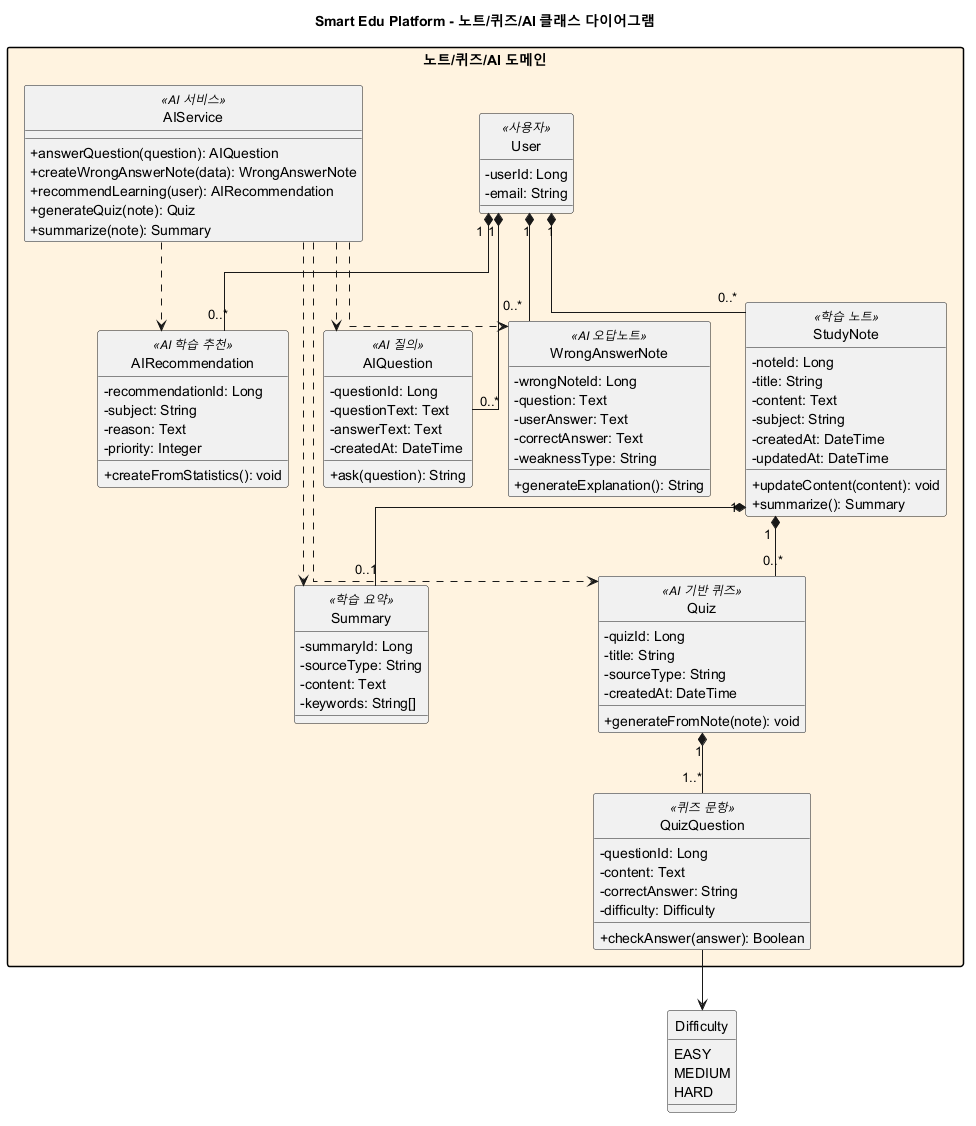
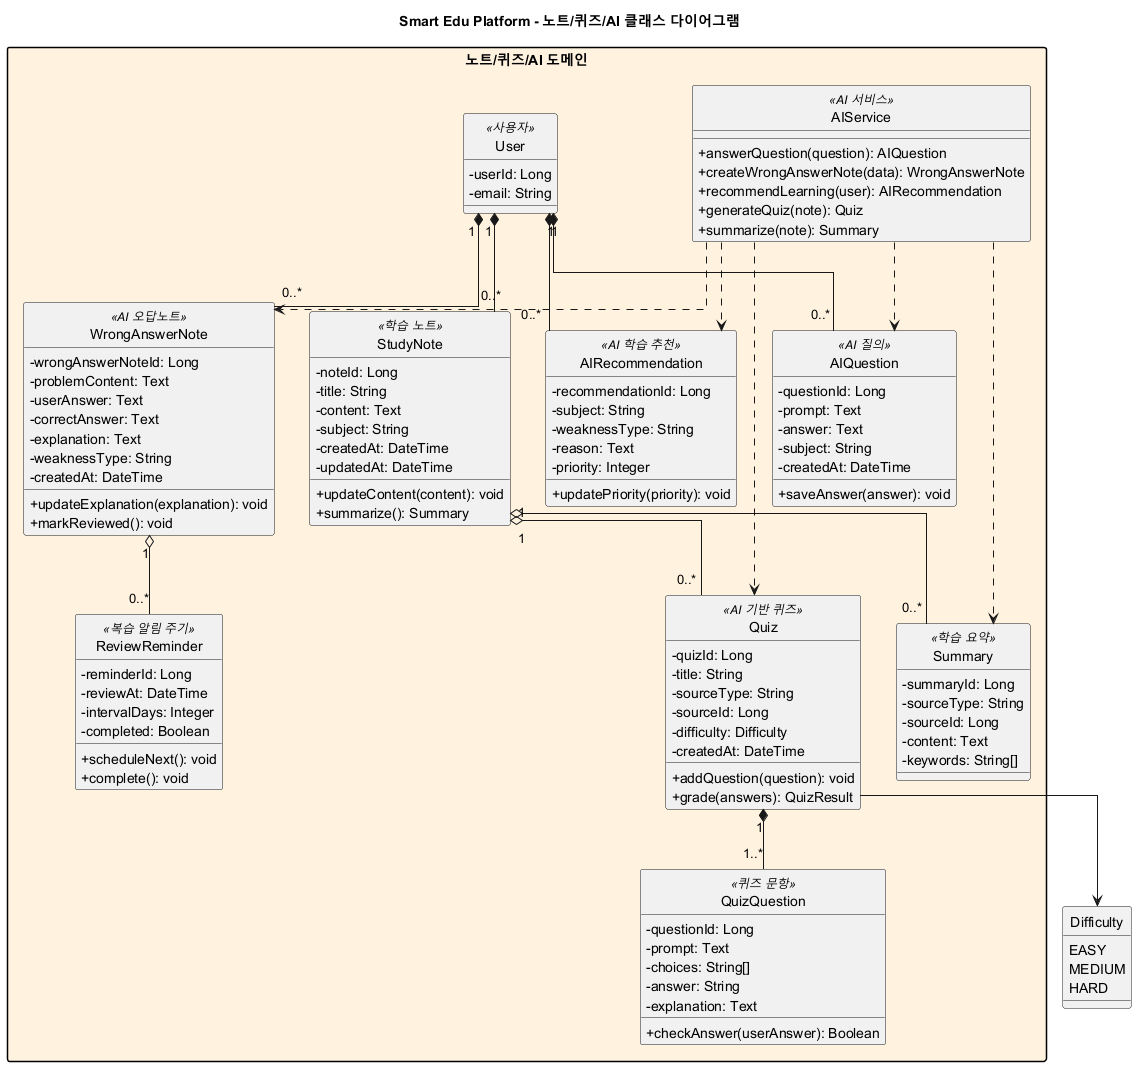
[docs] 분할 클래스 다이어그램 정합성 보완

Changed region(s): [[0.0, 0.0, 1.0, 1.0], [0.0615, 0.5531, 0.1844, 0.7374], [0.3074, 0.2151, 0.3689, 0.2458]]

diff --git a/docs/design/class-diagram.md b/docs/design/class-diagram.md
@@ -68,6 +68,7 @@
 | 노트/퀴즈/AI | 학습 노트, AI 질의, 오답노트, 추천, 퀴즈, 요약 구조 | [class-diagram-notes-ai.png](../../screenshots/class-diagram/class-diagram-notes-ai.png) | [class-diagram-notes-ai.puml](plantuml/class-diagram-notes-ai.puml) |
 | 커뮤니티/챌린지/관리자 | 게시판, 댓글, 스터디 챌린지, 랭킹, 관리자 처리 구조 | [class-diagram-community-admin.png](../../screenshots/class-diagram/class-diagram-community-admin.png) | [class-diagram-community-admin.puml](plantuml/class-diagram-community-admin.puml) |
 | 집중 시간/통계 | 집중 세션, 앱 차단 규칙, 학습 통계, 히트맵 구조 | [class-diagram-focus-statistics.png](../../screenshots/class-diagram/class-diagram-focus-statistics.png) | [class-diagram-focus-statistics.puml](plantuml/class-diagram-focus-statistics.puml) |
+| 보상 | 포인트 지갑, 업적 뱃지, 사용자 뱃지 보유 기록 구조 | [class-diagram-reward.png](../../screenshots/class-diagram/class-diagram-reward.png) | [class-diagram-reward.puml](plantuml/class-diagram-reward.puml) |
 
 ### 4.1 사용자/인증
 
@@ -89,6 +90,10 @@
 
 ![집중 시간/통계 클래스 다이어그램](../../screenshots/class-diagram/class-diagram-focus-statistics.png)
 
+### 4.6 보상
+
+![보상 클래스 다이어그램](../../screenshots/class-diagram/class-diagram-reward.png)
+
 ---
 
 ## 5. 주요 클래스 설명
@@ -103,6 +108,7 @@
 | `StudyNote` | 학습 노트 작성, 수정, 요약의 기준 객체 | `FR-06`, `FR-19` |
 | `Quiz`, `QuizQuestion` | AI 또는 노트 기반으로 생성되는 복습 퀴즈와 문제 | `FR-10` |
 | `WrongAnswerNote` | 오답 문제, 사용자 답변, 해설, 취약 유형을 관리 | `FR-08` |
+| `ReviewReminder` | 오답노트 기반 복습 알림 주기를 관리 | `FR-26` |
 | `AIService` | AI 질의, 오답노트 생성, 추천, 퀴즈 생성, 요약을 담당하는 서비스 | `FR-07`, `FR-08`, `FR-09`, `FR-10`, `FR-19` |
 | `FocusSession` | 클라이언트에서 측정한 최종 순공 시간을 `durationMs` 단위로 저장하는 집중 세션 기록 | `FR-15` |
 | `AppBlockRule` | 공부 시간 동안 차단할 앱과 예외 조건을 관리 | `FR-14` |
